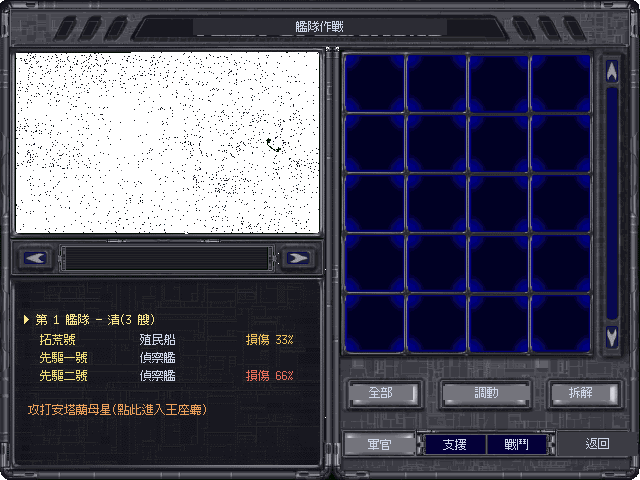
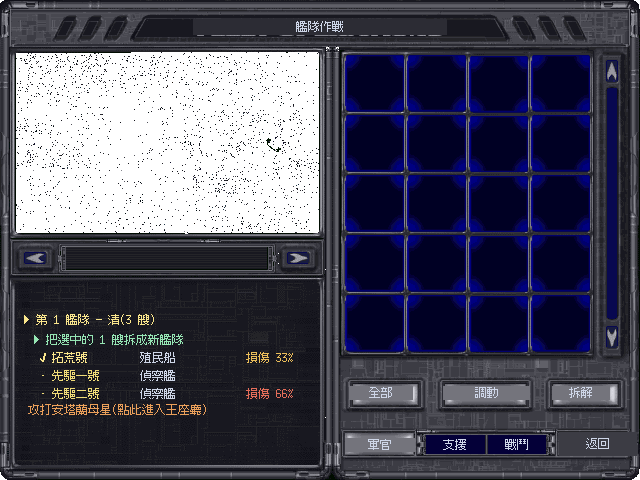
feat(fleet): 分艦隊——原版的「艦隊」是 ship stack,拆分是把船從串列摘下來
原版沒有「艦隊」這個型別,有的是 ship stack:
  word_192248[stack]     = 這一疊的頭一艘船 id
  word_1975D6[船 id × 5] = 「下一艘」(單向串列)
  word_199A02            = 目前的 stack 數
Split_Stack_ @ 0x5D689 收一組船 id,把它們從原本的串列摘下來、串成新的一個 stack,
接在表尾。語意是「選一組船抽出來組成一支新艦隊,位置不變」。remake 用切片,語意對得上。

擋下三種退化情形,其中一條是 remake 特有的:
  · 沒選任何船 / 選了全部 —— 「全選」不是拆分,那會留下一支空的舊艦隊
  · 索引越界
  · 艦隊正在航行 —— remake 的航行是整段跳的、中途沒有位置,拆出來的那一半沒地方放。
    這是 remake 移動模型的後果,不是原版規則(原版的 stack 隨時有座標)。

已知簡化:陸戰隊/戰車營全部留在原艦隊——remake 把它們建模成艦隊層級的數字,
不綁定到特定的船,拆分時沒有「哪些跟著走」的依據。寫成測試釘住。

⚠ 這個 UI 是 remake 自己加的:原版艦隊列表的美術上沒有 SPLIT 鈕(烘著的是
ALL / RELOCATE / SCRAP / LEADERS / Support / Combat / RETURN),原版是在右側艦艇格
選船再下令。remake 的右側格還沒接上選取,先用左側名冊勾選 + 一行文字當入口。

版面的坑:第一版把拆分那行放在船清單之後,而名冊往下長——結果和固定在 y=402 的
「攻打安塔蘭母星」疊在一起。改放在艦隊標頭底下,名冊再長也不會撞到底部。

Changed region(s): [[0.0625, 0.6875, 0.2812, 0.8438], [0.375, 0.6875, 0.4688, 0.8438], [0.2188, 0.8125, 0.2812, 0.8438]]

diff --git a/cmd/moo2/interactive.go b/cmd/moo2/interactive.go
@@ -365,6 +365,9 @@ type sceneBuilder struct {
 	// (見 relocation.go)。兩者都是看的方式,不進存檔。
 	relocPick   relocatePickState
 	relocColors []color.RGBA
+	// shipPick 是艦隊列表上被勾選的船(索引是**目前選中艦隊內**的索引),供拆分用。
+	// 換艦隊時要清掉——索引換一支就沒意義了。
+	shipPick map[int]bool
 	// flashMsg / flashUntil 是星圖底緣的短暫訊息(F10 快速存檔的回報等,見 hotkeys.go)。
 	// flashUntil 用 animTick 計時,到了就不畫。
 	flashMsg          string
@@ -2557,9 +2560,32 @@ func (b *sceneBuilder) fleet() (*overlayScreen, error) {
 		if strings.HasPrefix(a, "selfleet") && b.session != nil {
 			if n, err := strconv.Atoi(a[len("selfleet"):]); err == nil {
 				b.session.SelectFleet(n)
-				return b.goTo(b.fleet, "艦隊列表") // 重繪:換選中標記
+				b.shipPick = map[int]bool{} // 換艦隊 → 清掉選船(索引是艦隊內的,換一支就沒意義)
+				return b.goTo(b.fleet, "艦隊列表")
 			}
 			return nil
+		}
+		if strings.HasPrefix(a, "pickship") && b.session != nil {
+			if n, err := strconv.Atoi(a[len("pickship"):]); err == nil {
+				if b.shipPick == nil {
+					b.shipPick = map[int]bool{}
+				}
+				b.shipPick[n] = !b.shipPick[n]
+				return b.goTo(b.fleet, "艦隊列表")
+			}
+			return nil
+		}
+		if a == "splitfleet" && b.session != nil {
+			var picked []int
+			for si, on := range b.shipPick {
+				if on {
+					picked = append(picked, si)
+				}
+			}
+			if _, ok := b.session.SplitFleet(b.session.SelectedFleet, picked); ok {
+				b.shipPick = map[int]bool{}
+			}
+			return b.goTo(b.fleet, "艦隊列表")
 		}
 		switch a {
 		case "relocate":
@@ -2631,9 +2657,44 @@ func (b *sceneBuilder) fleet() (*overlayScreen, error) {
 			s.extras = append(s.extras, extraText{x: 24, y: y, size: 12, text: title, col: hc})
 			fleetHits = append(fleetHits, hitRegion{20, int(y) - 12, 300, 16, fmt.Sprintf("selfleet%d", fi)})
 			y += 20
-			for _, sh := range f.Ships {
+			// 拆分入口:選了至少一艘、又不是全部時才出現。
+			//
+			// ⚠ 原版這個畫面的美術上**沒有 SPLIT 鈕**(烘著的是 ALL / RELOCATE / SCRAP /
+			// LEADERS / Support / Combat / RETURN)——原版是在右側艦艇格選船再下令。
+			// remake 的右側格還沒接上選取,所以先用左側名冊選 + 這一行當入口。
+			// **這是 remake 自己加的控制項**,追到原版怎麼下拆分令之後要換掉。
+			//
+			// 放在**標頭底下**而不是船清單之後:名冊往下長,放在後面會撞到 y=402 那行
+			// 「攻打安塔蘭母星」(第一版就是這樣疊在一起的)。
+			if fi == b.session.SelectedFleet {
+				n := 0
+				for si := range f.Ships {
+					if b.shipPick[si] {
+						n++
+					}
+				}
+				if n > 0 && n < len(f.Ships) {
+					s.extras = append(s.extras, extraText{x: 34, y: y, size: 11,
+						text: fmt.Sprintf(b.tr("▶ 把選中的 %d 艘拆成新艦隊", "▶ Split %d selected into a new fleet"), n),
+						col:  color.RGBA{150, 230, 180, 255}})
+					fleetHits = append(fleetHits, hitRegion{28, int(y) - 11, 296, 15, "splitfleet"})
+					y += 18
+				}
+			}
+			for si, sh := range f.Ships {
+				// 選船(供拆分用):只有目前操作中的艦隊可以選——拆分是對「這一支」做的。
+				mk := ""
+				nameCol := gold
+				if fi == b.session.SelectedFleet {
+					if b.shipPick[si] {
+						mk, nameCol = "✔ ", sel
+					} else {
+						mk = "· "
+					}
+					fleetHits = append(fleetHits, hitRegion{34, int(y) - 11, 290, 15, fmt.Sprintf("pickship%d", si)})
+				}
 				s.extras = append(s.extras,
-					extraText{x: 40, y: y, size: 12, text: sh.Name, col: gold},
+					extraText{x: 40, y: y, size: 12, text: mk + sh.Name, col: nameCol},
 					extraText{x: 140, y: y, size: 11, text: sh.Class, col: body},
 				)
 				// 結構損傷(見 internal/shell/repair.go)。原版是在艦艇資訊面板用損壞色標示,
@@ -3663,6 +3724,11 @@ func (a *interactiveApp) Update() error {
 			Over: true, Reason: engine.VictoryAntaran, Winner: "player", Turn: a.gallerySession.Turn,
 		}
 		a.gallerySession.AntaranHomeworldConquered = true
+	}
+	// 截圖廊專用:艦隊列表勾兩艘船,讓「拆成新艦隊」那一行出現在截圖裡
+	// (不勾就永遠看不到,那一層等於沒被驗到)。
+	if a.galleryFleetTick > 0 && a.tick == a.galleryFleetTick && a.galleryBuilder != nil {
+		a.galleryBuilder.shipPick = map[int]bool{0: true}
 	}
 	// 截圖廊專用:艦隊列表與安塔蘭王座廳的前置狀態(見 galleryFleetTick 的說明)。
 	// 與上面同一個理由——截圖驗證等不起真的打一場、也等不起研究到多維物理再蓋傳送門。

diff --git a/internal/shell/fleet_test.go b/internal/shell/fleet_test.go
@@ -286,3 +286,82 @@ func TestSaveRoundTripKeepsEveryFleet(t *testing.T) {
 		t.Errorf("全帝國應仍有 5 艘,實得 %d", got.ShipCount())
 	}
 }
+
+// ---- 分艦隊(原版 Split_Stack_)----
+
+// TestSplitFleetMovesChosenShips:選中的船抽出來組成新的一支,位置不變。
+func TestSplitFleetMovesChosenShips(t *testing.T) {
+	s := twoFleetSession()
+	idx, ok := s.SplitFleet(1, []int{0, 2}) // 丙、戊
+	if !ok {
+		t.Fatal("應該拆得成")
+	}
+	if idx != 2 || len(s.Fleets) != 3 {
+		t.Fatalf("新艦隊應接在尾端(索引 2),實得 %d,共 %d 支", idx, len(s.Fleets))
+	}
+	nf := s.Fleets[idx]
+	if len(nf.Ships) != 2 || nf.Ships[0].Name != "丙" || nf.Ships[1].Name != "戊" {
+		t.Errorf("新艦隊應是丙+戊,實得 %v", nf.Ships)
+	}
+	if nf.AtStar != 3 {
+		t.Errorf("新艦隊位置應與原艦隊相同(星 3),實得 %d", nf.AtStar)
+	}
+	if nf.DestStar != -1 {
+		t.Errorf("新艦隊不該帶航行任務,實得 %d", nf.DestStar)
+	}
+	if len(s.Fleets[1].Ships) != 1 || s.Fleets[1].Ships[0].Name != "丁" {
+		t.Errorf("原艦隊應只剩丁,實得 %v", s.Fleets[1].Ships)
+	}
+	if s.ShipCount() != 5 {
+		t.Errorf("拆分不該改變全帝國艦數,實得 %d", s.ShipCount())
+	}
+}
+
+// TestSplitFleetRejectsDegenerateCases:沒選、全選、越界、航行中都不動作。
+//
+// 「全選」特別要擋:那不是拆分,是原地生一支空的舊艦隊 + 一支一樣的新艦隊。
+func TestSplitFleetRejectsDegenerateCases(t *testing.T) {
+	for _, c := range []struct {
+		name  string
+		fleet int
+		ships []int
+		prep  func(*GameSession)
+	}{
+		{"沒選任何船", 1, nil, nil},
+		{"選了全部", 1, []int{0, 1, 2}, nil},
+		{"索引全越界", 1, []int{9, 10}, nil},
+		{"艦隊索引越界", 9, []int{0}, nil},
+		{"航行中", 1, []int{0}, func(s *GameSession) { s.Fleets[1].DestStar, s.Fleets[1].ETA = 0, 2 }},
+	} {
+		s := twoFleetSession()
+		if c.prep != nil {
+			c.prep(s)
+		}
+		before := len(s.Fleets)
+		if _, ok := s.SplitFleet(c.fleet, c.ships); ok {
+			t.Errorf("%s:不該拆得成", c.name)
+		}
+		if len(s.Fleets) != before {
+			t.Errorf("%s:艦隊數不該變,%d → %d", c.name, before, len(s.Fleets))
+		}
+	}
+}
+
+// TestSplitFleetKeepsGroundTroopsWithOriginal 釘住一個**已知的簡化**。
+//
+// remake 把陸戰隊/戰車營建模成艦隊層級的數字,不綁定到特定的船,所以拆分時沒有
+// 「哪些跟著走」的依據——全部留在原艦隊。要改成逐船攜行得先讓運兵成為船的屬性。
+func TestSplitFleetKeepsGroundTroopsWithOriginal(t *testing.T) {
+	s := twoFleetSession()
+	s.Fleets[1].Marines, s.Fleets[1].Tanks = 6, 3
+	idx, ok := s.SplitFleet(1, []int{0})
+	if !ok {
+		t.Fatal("應該拆得成")
+	}
+	if s.Fleets[1].Marines != 6 || s.Fleets[1].Tanks != 3 {
+		t.Errorf("地面部隊應留在原艦隊,實得 (%d,%d)", s.Fleets[1].Marines, s.Fleets[1].Tanks)
+	}
+	if s.Fleets[idx].Marines != 0 || s.Fleets[idx].Tanks != 0 {
+		t.Errorf("新艦隊不該分到地面部隊,實得 (%d,%d)", s.Fleets[idx].Marines, s.Fleets[idx].Tanks)
+	}
+}

diff --git a/internal/shell/fleet.go b/internal/shell/fleet.go
@@ -157,3 +157,57 @@ func (s *GameSession) colonyStar(i int) int {
 	}
 	return s.PlayerColonyStars[i]
 }
+
+// ---- 分艦隊(原版 `Split_Stack_` @ 0x5D689)----
+//
+// 原版的「艦隊」叫 **ship stack**:`word_192248[stack]` 是頭一艘船的 id,
+// `word_1975D6[船 id×5]` 是「下一艘」的指標——**單向串列**。
+// `Split_Stack_` 收一組船 id,把它們從原本的串列摘下來、串成新的一個 stack,
+// 接在 stack 表的尾端(`word_199A02` 是目前的 stack 數)。
+//
+// 所以拆分的語意是:**選一組船,抽出來組成一支新艦隊**,位置不變。
+// remake 用切片而不是串列,但語意逐項對得上。
+
+// SplitFleet 把第 fleetIdx 支艦隊裡的 ships(艦隊內索引)抽出來組成新的一支。
+//
+// 回傳新艦隊的索引與是否成功。以下情況不動作:
+//   - 艦隊索引越界、沒有選任何船、選了全部(那不是拆分,是原地不動)
+//   - **艦隊正在航行**——remake 的航行是整段跳的,中途沒有位置,
+//     拆出來的那一半沒有可放的地方。這是 remake 移動模型的後果,不是原版規則。
+//
+// ⚠ 陸戰隊/戰車營**留在原艦隊**:remake 把它們建模成艦隊層級的數字(不綁定到特定的船),
+// 所以拆分時沒有「哪些跟著走」的依據。要改成逐船攜行得先讓運兵成為船的屬性。
+func (s *GameSession) SplitFleet(fleetIdx int, ships []int) (int, bool) {
+	s.ensureFleet()
+	if fleetIdx < 0 || fleetIdx >= len(s.Fleets) {
+		return -1, false
+	}
+	src := &s.Fleets[fleetIdx]
+	if src.DestStar >= 0 {
+		return -1, false // 航行中不能拆(見上方 ⚠)
+	}
+	// 去重 + 濾掉越界,順便算出「要留下的」。
+	take := map[int]bool{}
+	for _, i := range ships {
+		if i >= 0 && i < len(src.Ships) {
+			take[i] = true
+		}
+	}
+	if len(take) == 0 || len(take) == len(src.Ships) {
+		return -1, false
+	}
+	moved := make([]Ship, 0, len(take))
+	kept := make([]Ship, 0, len(src.Ships)-len(take))
+	for i, sh := range src.Ships {
+		if take[i] {
+			moved = append(moved, sh)
+		} else {
+			kept = append(kept, sh)
+		}
+	}
+	src.Ships = kept
+	f := NewFleet(src.AtStar)
+	f.Ships = moved
+	s.Fleets = append(s.Fleets, f)
+	return len(s.Fleets) - 1, true
+}

diff --git a/docs/re/01-gap-report.md b/docs/re/01-gap-report.md
@@ -2751,3 +2751,47 @@ remake 的新遊戲流程順序與此一致;`Main_Screen_ → Do_Colony_Screen_`
     `Set_All_Star_Relocations_` @ 0x785EC 與 `Clear_All_Star_Relocations_` @ 0x77BB1
     ——艦隊列表上的 **ALL**(remake 譯「全部」)鈕多半就是它們:一次把所有殖民地的集結點
     設成同一顆星 / 全部清掉。**還沒接**,也還沒確認 ALL 鈕是不是對應這一對。
+
+---
+
+60. **分艦隊:原版的「艦隊」是 ship stack,拆分是把船從串列摘下來**(2026-08-07,task #50 收尾)。
+
+    ### 資料結構
+
+    原版沒有「艦隊」這個型別,有的是 **ship stack**:
+
+    ```
+    word_192248[stack]      = 這一疊的頭一艘船 id
+    word_1975D6[船 id × 5]  = 「下一艘」            ; 單向串列
+    word_1975D4[船 id × 5]  = 那艘船在哪顆星
+    word_199A02             = 目前的 stack 數
+    ```
+
+    `Split_Stack_` @ 0x5D689 收一組船 id,把它們從原本的串列摘下來、串成新的一個 stack,
+    **接在 stack 表的尾端**。所以拆分的語意是「選一組船,抽出來組成一支新艦隊,位置不變」。
+    remake 用切片而不是串列,語意逐項對得上(`SplitFleet`)。
+
+    ### 三條擋下來的退化情形,其中一條是 remake 特有的
+
+    | 情形 | 為什麼擋 |
+    |---|---|
+    | 沒選任何船 / 選了全部 | 「全選」不是拆分——那會留下一支空的舊艦隊 + 一支一樣的新艦隊 |
+    | 艦隊索引或船索引越界 | 一般防禦 |
+    | **艦隊正在航行** | remake 的航行是**整段跳的**,中途沒有位置,拆出來的那一半沒有可放的地方。**這是 remake 移動模型的後果,不是原版規則**——原版的 stack 隨時有座標 |
+
+    ### 一個已知的簡化,寫成測試釘住
+
+    陸戰隊 / 戰車營**全部留在原艦隊**:remake 把它們建模成艦隊層級的數字,不綁定到特定的船,
+    所以拆分時沒有「哪些跟著走」的依據。要改成逐船攜行,得先讓運兵成為船的屬性。
+
+    ### ⚠ 這個 UI 是 remake 自己加的
+
+    原版艦隊列表的美術上**沒有 SPLIT 鈕**(烘著的是 ALL / RELOCATE / SCRAP / LEADERS /
+    Support / Combat / RETURN)——原版是在**右側的艦艇格**選船再下令。
+    remake 的右側格還沒接上選取,所以先用左側名冊勾選 + 一行文字當入口。
+    追到原版怎麼下拆分令之後要換掉。
+
+    ### 版面的坑:兩個東西搶同一塊底部
+
+    第一版把拆分那一行放在船清單**之後**,而名冊是往下長的——結果和固定在 y=402 的
+    「攻打安塔蘭母星」疊在一起。改放在**艦隊標頭底下**:名冊再長也不會撞到底部。
